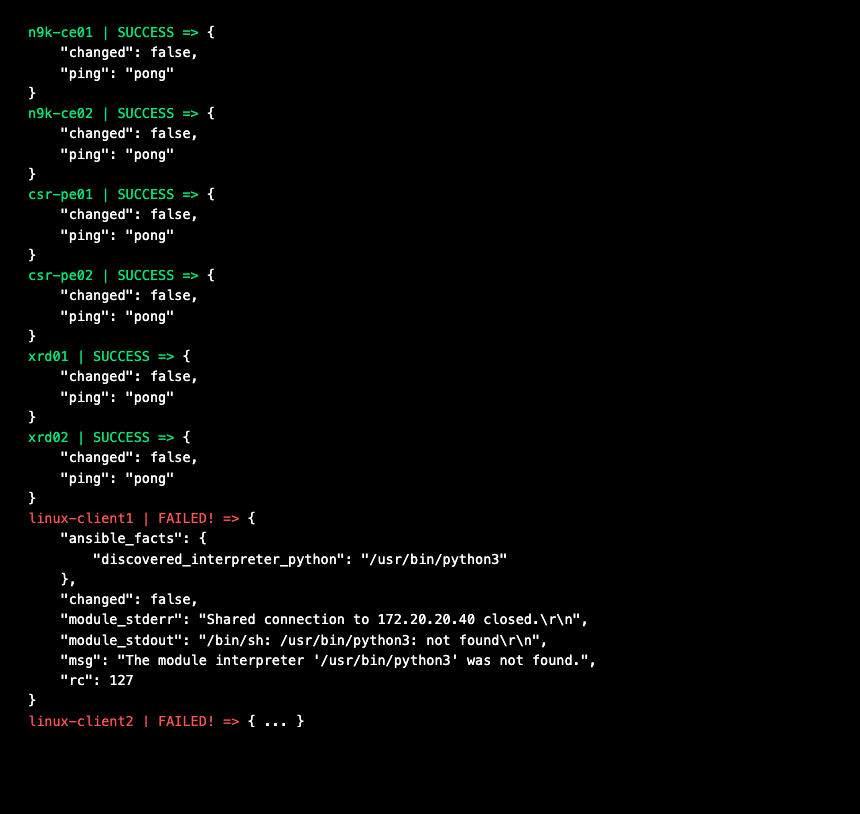
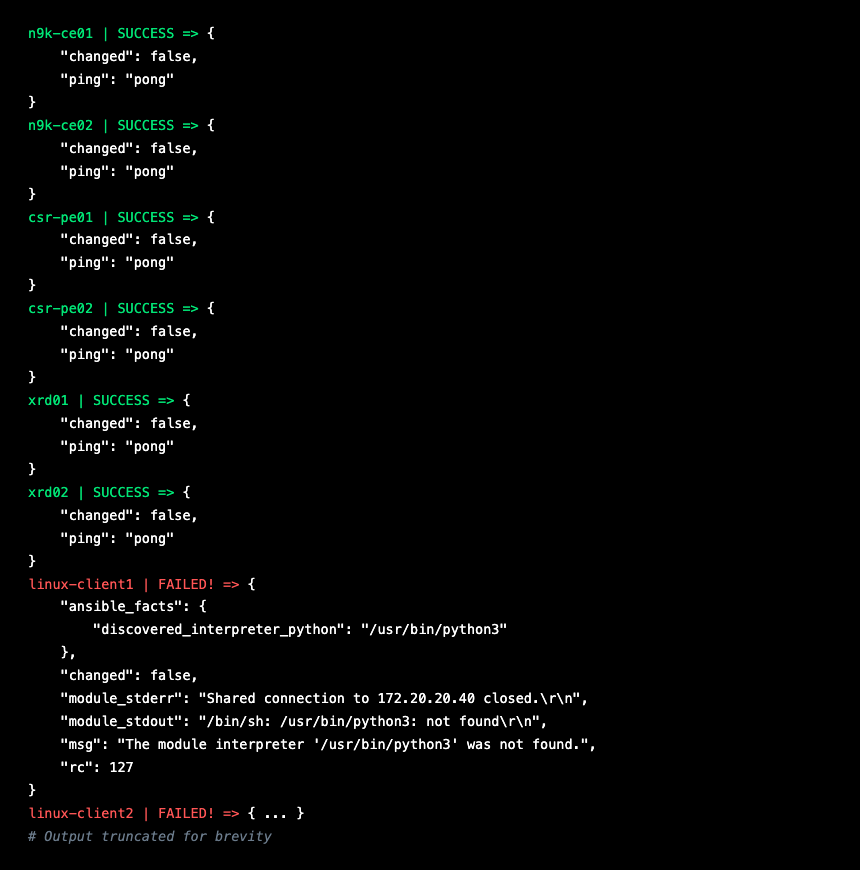
update ansible ping output image: trim to 2 failures, add truncation comment

Changed region(s): [[0.0302, 0.1229, 0.6953, 0.8907], [0.0302, 0.9214, 0.3023, 0.9828], [0.0302, 0.0307, 0.2419, 0.0921]]

diff --git a/images/getting-started-ansible-ping-output.html b/images/getting-started-ansible-ping-output.html
@@ -5,12 +5,14 @@
 <meta name="viewport" content="width=1200" />
 <title>getting-started-ansible-ping-output</title>
 <style>
+  @import url('https://fonts.googleapis.com/css2?family=JetBrains+Mono:wght@400;600&display=swap');
+
   * { box-sizing: border-box; margin: 0; padding: 0; }
   html, body { overflow: hidden; }
 
   body {
     background: #000000;
-    font-family: 'Courier New', monospace;
+    font-family: 'JetBrains Mono', 'Courier New', monospace;
   }
 
   .terminal {
@@ -18,7 +20,8 @@
     width: 860px;
     padding: 22px 28px 22px 28px;
     font-size: 13.5px;
-    line-height: 1.5;
+    line-height: 1.7;
+    color: #ffffff;
   }
 
   .wh  { color: #ffffff; }
@@ -64,9 +67,7 @@
 <span class="wh">    "rc": 127</span>
 <span class="wh">}</span>
 <span class="err">linux-client2 | FAILED! =&gt;</span><span class="wh"> { ... }</span>
-<span class="err">linux-client3 | FAILED! =&gt;</span><span class="wh"> { ... }</span>
-<span class="err">linux-client4 | FAILED! =&gt;</span><span class="wh"> { ... }</span>
-<span class="cm"># Linux client failures are expected — see note below</span></pre>
+<span class="cm"># Output truncated for brevity</span></pre>
 </div>
 </body>
 </html>